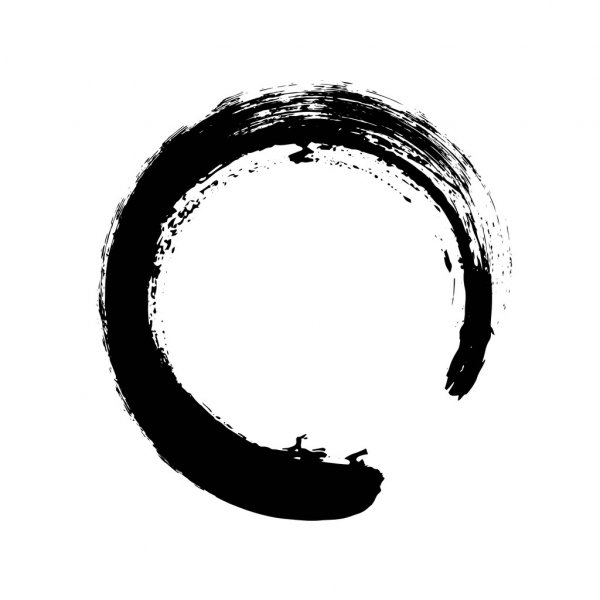
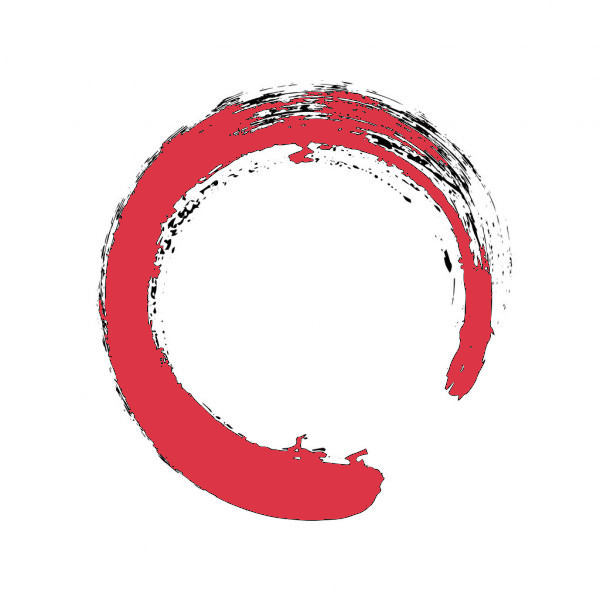
Updated links and welcome image

Changed region(s): [[0.15, 0.15, 0.84, 0.87]]

diff --git a/src/components/Home/index.js b/src/components/Home/index.js
@@ -5,7 +5,7 @@ function Home() {
   return (
     <div className="body">
         <h1 className="font-weight-light">Welcome to Kyle's Portfolio</h1>        
-        <Image id="welcome" src='img/enso.jpg' alt="welcome" roundedCircle />
+        <Image id="enso" src='img/enso.jpg' alt="welcome" roundedCircle />
         </div>
   );
 }

diff --git a/src/components/Home/style.css b/src/components/Home/style.css
@@ -1,4 +1,3 @@
-#welcome {
+#enso {
     filter: invert(1);
-  
 }
